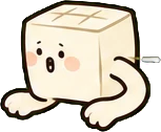
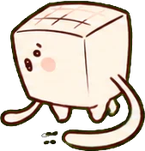
랜덤 디펜스: 셔플 보스(두부 의태형) 그림을 다시 받은 한 줄 시트로 바꿈
사람이 셔플 줄만 다시 만들어 줌(팔이 긴 원작 모습에 더 가깝게). 보스 시트 전체를 다시 만들지 않도록
monsters_slice.py 에 ROW_SHEET(줄 → 따로 받은 시트 파일)를 두고, 셔플 줄은 tools/sheets/bosses_shuffle.webp 에서 자름.
새 그림은 몸 키에 긴 팔까지 들어가 키를 42 → 50 도트로(다른 보스와 비슷한 크기 — 판에서 확인).

Claude-Session: https://claude.ai/code/session_01Uqv9B2V2ARiMb2Naqp8vN9

diff --git a/assets/monsters/monsters.js b/assets/monsters/monsters.js
@@ -1,4 +1,4 @@
 /* 괴물 특성 5종 · 보스 4종 프레임 목록 — tools/monsters_slice.py 가 씁니다(손으로 고치지 말 것).
    그림: 사람이 만든 초록 바탕 시트(tools/sheets/)를 자른 PNG. 시트 괴물 · 보스 걷기 모두 왼쪽을 봅니다.
    f = 파일, w·h = 크기(px), ax·ay = 발 기준점(px), k = 그림 1px 의 도트 수. */
-window.CD_MON_FILES = {"k":0.333333,"mon":{"fast":{"walk":[{"f":"m_fast_walk_0.png","w":109,"h":88,"ax":48.3,"ay":86.8},{"f":"m_fast_walk_1.png","w":121,"h":84,"ax":51.6,"ay":83.5},{"f":"m_fast_walk_2.png","w":129,"h":81,"ax":52.5,"ay":80.2},{"f":"m_fast_walk_3.png","w":127,"h":85,"ax":51.6,"ay":81.0},{"f":"m_fast_walk_4.png","w":132,"h":86,"ax":51.6,"ay":79.3},{"f":"m_fast_walk_5.png","w":137,"h":83,"ax":54.1,"ay":81.8}],"hit":[{"f":"m_fast_hit_0.png","w":121,"h":107,"ax":54.1,"ay":105.8}],"down":[{"f":"m_fast_down_0.png","w":140,"h":98,"ax":68.5,"ay":97.5}]},"armor":{"walk":[{"f":"m_armor_walk_0.png","w":105,"h":82,"ax":46.5,"ay":81.0},{"f":"m_armor_walk_1.png","w":102,"h":81,"ax":43.7,"ay":81.0},{"f":"m_armor_walk_2.png","w":98,"h":80,"ax":40.2,"ay":79.6},{"f":"m_armor_walk_3.png","w":101,"h":82,"ax":47.2,"ay":79.6},{"f":"m_armor_walk_4.png","w":103,"h":82,"ax":43.7,"ay":81.7},{"f":"m_armor_walk_5.png","w":99,"h":82,"ax":44.4,"ay":81.7}],"hit":[{"f":"m_armor_hit_0.png","w":103,"h":92,"ax":54.9,"ay":92.2}],"down":[{"f":"m_armor_down_0.png","w":119,"h":52,"ax":53.7,"ay":52.4}]},"regen":{"walk":[{"f":"m_regen_walk_0.png","w":90,"h":80,"ax":39.6,"ay":79.7},{"f":"m_regen_walk_1.png","w":90,"h":81,"ax":38.3,"ay":80.4},{"f":"m_regen_walk_2.png","w":92,"h":82,"ax":40.9,"ay":81.0},{"f":"m_regen_walk_3.png","w":93,"h":83,"ax":38.9,"ay":81.0},{"f":"m_regen_walk_4.png","w":95,"h":82,"ax":38.3,"ay":81.6}],"heal":[{"f":"m_regen_heal_0.png","w":100,"h":82,"ax":37.6,"ay":79.7}],"hit":[{"f":"m_regen_hit_0.png","w":86,"h":93,"ax":46.0,"ay":92.7}],"down":[{"f":"m_regen_down_0.png","w":113,"h":56,"ax":52.1,"ay":56.4}]},"split":{"walk":[{"f":"m_split_walk_0.png","w":79,"h":76,"ax":33.2,"ay":75.6},{"f":"m_split_walk_1.png","w":78,"h":76,"ax":33.8,"ay":75.6},{"f":"m_split_walk_2.png","w":79,"h":75,"ax":35.1,"ay":75.0},{"f":"m_split_walk_3.png","w":81,"h":76,"ax":34.4,"ay":73.7},{"f":"m_split_walk_4.png","w":71,"h":75,"ax":35.1,"ay":75.0},{"f":"m_split_walk_5.png","w":81,"h":78,"ax":34.4,"ay":75.0}],"split":[{"f":"m_split_split_0.png","w":86,"h":71,"ax":33.8,"ay":70.6},{"f":"m_split_split_1.png","w":86,"h":69,"ax":33.1,"ay":68.6}],"small":[{"f":"m_split_small_0.png","w":61,"h":50,"ax":24.3,"ay":50.2},{"f":"m_split_small_1.png","w":60,"h":50,"ax":24.4,"ay":50.2}]},"revive":{"walk":[{"f":"m_revive_walk_0.png","w":102,"h":82,"ax":43.3,"ay":81.0},{"f":"m_revive_walk_1.png","w":102,"h":82,"ax":44.0,"ay":81.0},{"f":"m_revive_walk_2.png","w":98,"h":81,"ax":44.0,"ay":81.0},{"f":"m_revive_walk_3.png","w":108,"h":82,"ax":44.0,"ay":82.3},{"f":"m_revive_walk_4.png","w":108,"h":82,"ax":44.0,"ay":81.7},{"f":"m_revive_walk_5.png","w":108,"h":80,"ax":44.6,"ay":79.7}],"down":[{"f":"m_revive_down_0.png","w":100,"h":94,"ax":45.6,"ay":94.3}],"rise":[{"f":"m_revive_rise_0.png","w":114,"h":104,"ax":56.3,"ay":103.6}]}},"boss":{"silence":{"front":[{"f":"b_silence_front_0.png","w":154,"h":168,"ax":71.0,"ay":168.0}],"walk":[{"f":"b_silence_walk_0.png","w":153,"h":169,"ax":59.7,"ay":169.1},{"f":"b_silence_walk_1.png","w":142,"h":168,"ax":57.6,"ay":168.0},{"f":"b_silence_walk_2.png","w":147,"h":169,"ax":59.7,"ay":169.1}],"ready":[{"f":"b_silence_ready_0.png","w":158,"h":174,"ax":82.1,"ay":173.3},{"f":"b_silence_ready_1.png","w":165,"h":178,"ax":87.6,"ay":177.5}],"cast":[{"f":"b_silence_cast_0.png","w":188,"h":175,"ax":110.4,"ay":174.3},{"f":"b_silence_cast_1.png","w":183,"h":178,"ax":100.6,"ay":177.5}]},"summon":{"front":[{"f":"b_summon_front_0.png","w":164,"h":171,"ax":82.8,"ay":171.2}],"walk":[{"f":"b_summon_walk_0.png","w":171,"h":169,"ax":87.2,"ay":169.1},{"f":"b_summon_walk_1.png","w":168,"h":169,"ax":86.1,"ay":160.5},{"f":"b_summon_walk_2.png","w":183,"h":169,"ax":92.6,"ay":168.0}],"ready":[{"f":"b_summon_ready_0.png","w":180,"h":187,"ax":102.4,"ay":187.4},{"f":"b_summon_ready_1.png","w":181,"h":184,"ax":101.3,"ay":184.2}],"cast":[{"f":"b_summon_cast_0.png","w":194,"h":178,"ax":107.4,"ay":176.6},{"f":"b_summon_cast_1.png","w":192,"h":180,"ax":112.0,"ay":179.8}]},"heal":{"front":[{"f":"b_heal_front_0.png","w":163,"h":168,"ax":80.2,"ay":167.1}],"walk":[{"f":"b_heal_walk_0.png","w":143,"h":168,"ax":63.7,"ay":168.0},{"f":"b_heal_walk_1.png","w":144,"h":168,"ax":65.6,"ay":168.0},{"f":"b_heal_walk_2.png","w":161,"h":168,"ax":67.5,"ay":164.2}],"ready":[{"f":"b_heal_ready_0.png","w":145,"h":173,"ax":69.8,"ay":172.7},{"f":"b_heal_ready_1.png","w":142,"h":174,"ax":70.8,"ay":172.7}],"cast":[{"f":"b_heal_cast_0.png","w":168,"h":173,"ax":94.6,"ay":172.7},{"f":"b_heal_cast_1.png","w":174,"h":174,"ax":87.7,"ay":173.7}]},"shuffle":{"front":[{"f":"b_shuffle_front_0.png","w":170,"h":128,"ax":84.0,"ay":128.1}],"walk":[{"f":"b_shuffle_walk_0.png","w":181,"h":126,"ax":85.0,"ay":126.0},{"f":"b_shuffle_walk_1.png","w":161,"h":132,"ax":79.8,"ay":132.3},{"f":"b_shuffle_walk_2.png","w":177,"h":126,"ax":86.1,"ay":126.0}],"ready":[{"f":"b_shuffle_ready_0.png","w":192,"h":130,"ax":97.9,"ay":129.2},{"f":"b_shuffle_ready_1.png","w":169,"h":112,"ax":85.6,"ay":112.4}],"cast":[{"f":"b_shuffle_cast_0.png","w":187,"h":135,"ax":101.1,"ay":131.2},{"f":"b_shuffle_cast_1.png","w":188,"h":147,"ax":100.3,"ay":147.0}]}}};
+window.CD_MON_FILES = {"k":0.333333,"mon":{"fast":{"walk":[{"f":"m_fast_walk_0.png","w":109,"h":88,"ax":48.3,"ay":86.8},{"f":"m_fast_walk_1.png","w":121,"h":84,"ax":51.6,"ay":83.5},{"f":"m_fast_walk_2.png","w":129,"h":81,"ax":52.5,"ay":80.2},{"f":"m_fast_walk_3.png","w":127,"h":85,"ax":51.6,"ay":81.0},{"f":"m_fast_walk_4.png","w":132,"h":86,"ax":51.6,"ay":79.3},{"f":"m_fast_walk_5.png","w":137,"h":83,"ax":54.1,"ay":81.8}],"hit":[{"f":"m_fast_hit_0.png","w":121,"h":107,"ax":54.1,"ay":105.8}],"down":[{"f":"m_fast_down_0.png","w":140,"h":98,"ax":68.5,"ay":97.5}]},"armor":{"walk":[{"f":"m_armor_walk_0.png","w":105,"h":82,"ax":46.5,"ay":81.0},{"f":"m_armor_walk_1.png","w":102,"h":81,"ax":43.7,"ay":81.0},{"f":"m_armor_walk_2.png","w":98,"h":80,"ax":40.2,"ay":79.6},{"f":"m_armor_walk_3.png","w":101,"h":82,"ax":47.2,"ay":79.6},{"f":"m_armor_walk_4.png","w":103,"h":82,"ax":43.7,"ay":81.7},{"f":"m_armor_walk_5.png","w":99,"h":82,"ax":44.4,"ay":81.7}],"hit":[{"f":"m_armor_hit_0.png","w":103,"h":92,"ax":54.9,"ay":92.2}],"down":[{"f":"m_armor_down_0.png","w":119,"h":52,"ax":53.7,"ay":52.4}]},"regen":{"walk":[{"f":"m_regen_walk_0.png","w":90,"h":80,"ax":39.6,"ay":79.7},{"f":"m_regen_walk_1.png","w":90,"h":81,"ax":38.3,"ay":80.4},{"f":"m_regen_walk_2.png","w":92,"h":82,"ax":40.9,"ay":81.0},{"f":"m_regen_walk_3.png","w":93,"h":83,"ax":38.9,"ay":81.0},{"f":"m_regen_walk_4.png","w":95,"h":82,"ax":38.3,"ay":81.6}],"heal":[{"f":"m_regen_heal_0.png","w":100,"h":82,"ax":37.6,"ay":79.7}],"hit":[{"f":"m_regen_hit_0.png","w":86,"h":93,"ax":46.0,"ay":92.7}],"down":[{"f":"m_regen_down_0.png","w":113,"h":56,"ax":52.1,"ay":56.4}]},"split":{"walk":[{"f":"m_split_walk_0.png","w":79,"h":76,"ax":33.2,"ay":75.6},{"f":"m_split_walk_1.png","w":78,"h":76,"ax":33.8,"ay":75.6},{"f":"m_split_walk_2.png","w":79,"h":75,"ax":35.1,"ay":75.0},{"f":"m_split_walk_3.png","w":81,"h":76,"ax":34.4,"ay":73.7},{"f":"m_split_walk_4.png","w":71,"h":75,"ax":35.1,"ay":75.0},{"f":"m_split_walk_5.png","w":81,"h":78,"ax":34.4,"ay":75.0}],"split":[{"f":"m_split_split_0.png","w":86,"h":71,"ax":33.8,"ay":70.6},{"f":"m_split_split_1.png","w":86,"h":69,"ax":33.1,"ay":68.6}],"small":[{"f":"m_split_small_0.png","w":61,"h":50,"ax":24.3,"ay":50.2},{"f":"m_split_small_1.png","w":60,"h":50,"ax":24.4,"ay":50.2}]},"revive":{"walk":[{"f":"m_revive_walk_0.png","w":102,"h":82,"ax":43.3,"ay":81.0},{"f":"m_revive_walk_1.png","w":102,"h":82,"ax":44.0,"ay":81.0},{"f":"m_revive_walk_2.png","w":98,"h":81,"ax":44.0,"ay":81.0},{"f":"m_revive_walk_3.png","w":108,"h":82,"ax":44.0,"ay":82.3},{"f":"m_revive_walk_4.png","w":108,"h":82,"ax":44.0,"ay":81.7},{"f":"m_revive_walk_5.png","w":108,"h":80,"ax":44.6,"ay":79.7}],"down":[{"f":"m_revive_down_0.png","w":100,"h":94,"ax":45.6,"ay":94.3}],"rise":[{"f":"m_revive_rise_0.png","w":114,"h":104,"ax":56.3,"ay":103.6}]}},"boss":{"silence":{"front":[{"f":"b_silence_front_0.png","w":154,"h":168,"ax":71.0,"ay":168.0}],"walk":[{"f":"b_silence_walk_0.png","w":153,"h":169,"ax":59.7,"ay":169.1},{"f":"b_silence_walk_1.png","w":142,"h":168,"ax":57.6,"ay":168.0},{"f":"b_silence_walk_2.png","w":147,"h":169,"ax":59.7,"ay":169.1}],"ready":[{"f":"b_silence_ready_0.png","w":158,"h":174,"ax":82.1,"ay":173.3},{"f":"b_silence_ready_1.png","w":165,"h":178,"ax":87.6,"ay":177.5}],"cast":[{"f":"b_silence_cast_0.png","w":188,"h":175,"ax":110.4,"ay":174.3},{"f":"b_silence_cast_1.png","w":183,"h":178,"ax":100.6,"ay":177.5}]},"summon":{"front":[{"f":"b_summon_front_0.png","w":164,"h":171,"ax":82.8,"ay":171.2}],"walk":[{"f":"b_summon_walk_0.png","w":171,"h":169,"ax":87.2,"ay":169.1},{"f":"b_summon_walk_1.png","w":168,"h":169,"ax":86.1,"ay":160.5},{"f":"b_summon_walk_2.png","w":183,"h":169,"ax":92.6,"ay":168.0}],"ready":[{"f":"b_summon_ready_0.png","w":180,"h":187,"ax":102.4,"ay":187.4},{"f":"b_summon_ready_1.png","w":181,"h":184,"ax":101.3,"ay":184.2}],"cast":[{"f":"b_summon_cast_0.png","w":194,"h":178,"ax":107.4,"ay":176.6},{"f":"b_summon_cast_1.png","w":192,"h":180,"ax":112.0,"ay":179.8}]},"heal":{"front":[{"f":"b_heal_front_0.png","w":163,"h":168,"ax":80.2,"ay":167.1}],"walk":[{"f":"b_heal_walk_0.png","w":143,"h":168,"ax":63.7,"ay":168.0},{"f":"b_heal_walk_1.png","w":144,"h":168,"ax":65.6,"ay":168.0},{"f":"b_heal_walk_2.png","w":161,"h":168,"ax":67.5,"ay":164.2}],"ready":[{"f":"b_heal_ready_0.png","w":145,"h":173,"ax":69.8,"ay":172.7},{"f":"b_heal_ready_1.png","w":142,"h":174,"ax":70.8,"ay":172.7}],"cast":[{"f":"b_heal_cast_0.png","w":168,"h":173,"ax":94.6,"ay":172.7},{"f":"b_heal_cast_1.png","w":174,"h":174,"ax":87.7,"ay":173.7}]},"shuffle":{"front":[{"f":"b_shuffle_front_0.png","w":177,"h":155,"ax":89.2,"ay":155.1}],"walk":[{"f":"b_shuffle_walk_0.png","w":188,"h":143,"ax":87.6,"ay":139.7},{"f":"b_shuffle_walk_1.png","w":145,"h":151,"ax":75.6,"ay":150.9},{"f":"b_shuffle_walk_2.png","w":189,"h":159,"ax":96.2,"ay":153.4}],"ready":[{"f":"b_shuffle_ready_0.png","w":194,"h":189,"ax":96.5,"ay":189.4},{"f":"b_shuffle_ready_1.png","w":175,"h":177,"ax":87.2,"ay":176.6}],"cast":[{"f":"b_shuffle_cast_0.png","w":182,"h":185,"ax":112.2,"ay":168.9},{"f":"b_shuffle_cast_1.png","w":187,"h":183,"ax":106.2,"ay":167.1}]}}};

diff --git a/tools/monsters_slice.py b/tools/monsters_slice.py
@@ -8,6 +8,7 @@
       고속 = 중지데스: 걷기 6 · 맞음 · 쓰러짐 / 장갑 = 아미아브라: 걷기 6 · 맞음 · 쓰러짐 / 재생 = 간장 문어: 걷기 5 · 회복 반짝 · 맞음 · 쓰러짐
       분열 = 생크림: 걷기 6 · 갈라짐 2 · 작은 것 2 / 부활 = 분홍 키메라: 걷기 6 · 쓰러짐(초록 반투명) · 다시 일어남
   tools/sheets/bosses.webp — 보스 4줄 × 8칸: 침묵 = 세이렌 · 소환 = 아노코 · 회복 = 큰 새 · 셔플 = 두부 의태형.
+      셔플 줄은 다시 받은 한 줄 시트 tools/sheets/bosses_shuffle.webp 에서 읽음(ROW_SHEET).
       앞 4칸 걷기(0 = 정면, 1~3 = 왼쪽을 봄), 5·6칸 = 기술 준비, 7·8칸 = 쓰는 중.
   칸 경계는 시트를 바꿀 때마다 초록 틈(그림이 없는 세로줄)을 재서 아래 MON_ROWS · BOSS_ROWS 에 적음.
 
@@ -55,8 +56,10 @@ BOSS_ROWS = {
     "silence": (80, 273, [112, 295, 469, 633, 802, 976, 1146, 1337, 1530]),
     "summon":  (301, 497, [112, 290, 467, 635, 815, 990, 1166, 1340, 1530]),
     "heal":    (532, 740, [112, 292, 463, 633, 816, 986, 1154, 1342, 1530]),
-    "shuffle": (790, 954, [112, 286, 469, 629, 804, 980, 1160, 1338, 1530]),
+    "shuffle": (210, 460, [140, 364, 606, 805, 1051, 1299, 1520, 1751, 1990]),   # 따로 받은 한 줄 시트(ROW_SHEET)
 }
+# 줄 하나만 다시 받은 경우: 그 줄은 이 파일에서 읽음 (좌표도 그 파일 기준)
+ROW_SHEET = {"shuffle": "bosses_shuffle.webp"}
 BOSS_NAMES = ["front", "walk", "walk", "walk", "ready", "ready", "cast", "cast"]
 
 
@@ -170,14 +173,20 @@ def scale_rgba(arr, k):
 # 원래 초록(잎 · 초록 유령 · 연두 빛)이 있는 줄 → 그 프레임 이름들(None = 줄 전체). 부활은 쓰러짐(초록 유령)만 —
 # 걷기·일어남의 하늘색 꼬리는 전부 깎아야 청록으로 물들지 않음
 GREEN = {"fast": None, "regen": {"heal"}, "heal": None, "revive": {"down"}}   # fast = 연두색 중지데스(원래 초록을 지킴)
-ROW_H = {"split": 25, "shuffle": 42}                        # 분열(생크림)은 넓적해서 · 셔플(두부)은 몸은 낮고 팔이 넓어서 키를 낮춤 (칸 폭 · 다른 보스 크기를 넘지 않게)
+ROW_H = {"split": 25, "shuffle": 50}                        # 분열(생크림)은 넓적해서 · 셔플(두부)은 키에 긴 팔까지 들어가 조금 낮춤 (칸 폭 · 다른 보스 크기를 넘지 않게)
 
 
 def slice_rows(sheet, rows, names_of, target_h, prefix):
-    a = np.asarray(Image.open(sheet).convert("RGB")).astype(float)
-    keyed = {False: key(a, False), True: key(a, True)}
+    sheets = {}
+
+    def keyed_of(path):
+        if path not in sheets:
+            a = np.asarray(Image.open(path).convert("RGB")).astype(float)
+            sheets[path] = {False: key(a, False), True: key(a, True)}
+        return sheets[path]
     man, cells_dbg = {}, {}
     for name, spec in rows.items():
+        keyed = keyed_of(SHEETS / ROW_SHEET[name] if name in ROW_SHEET else sheet)
         y0, y1, xs = spec[0], spec[1], spec[2]
         names = names_of(spec)
         gset = GREEN.get(name, set())
